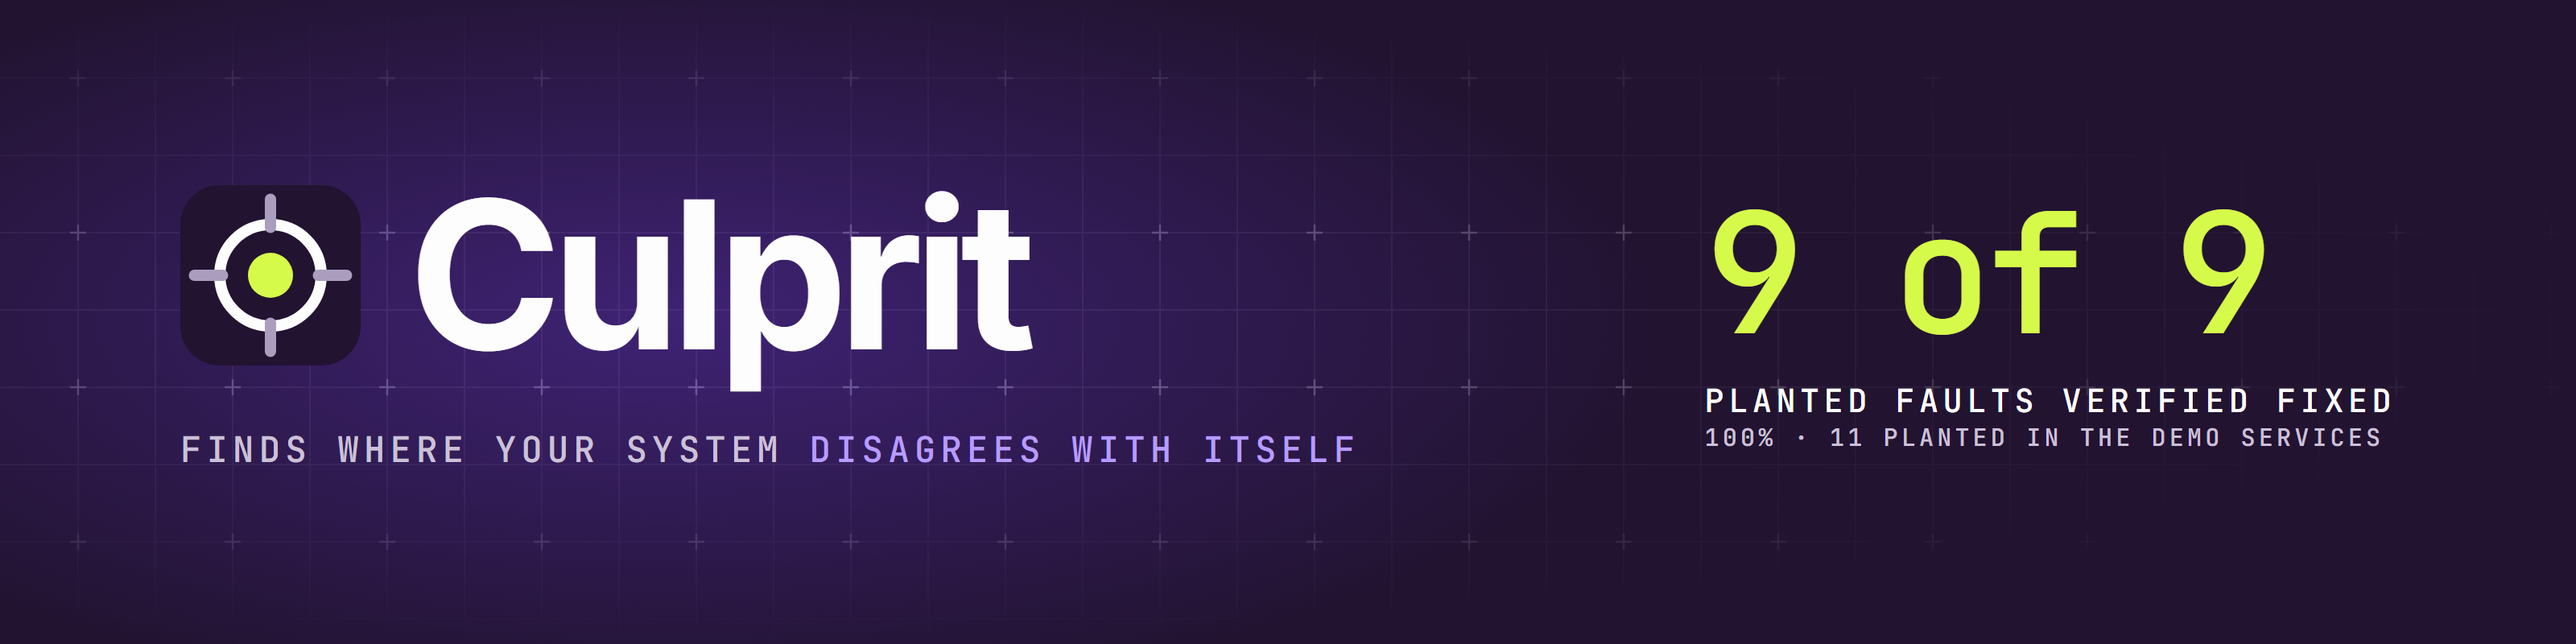
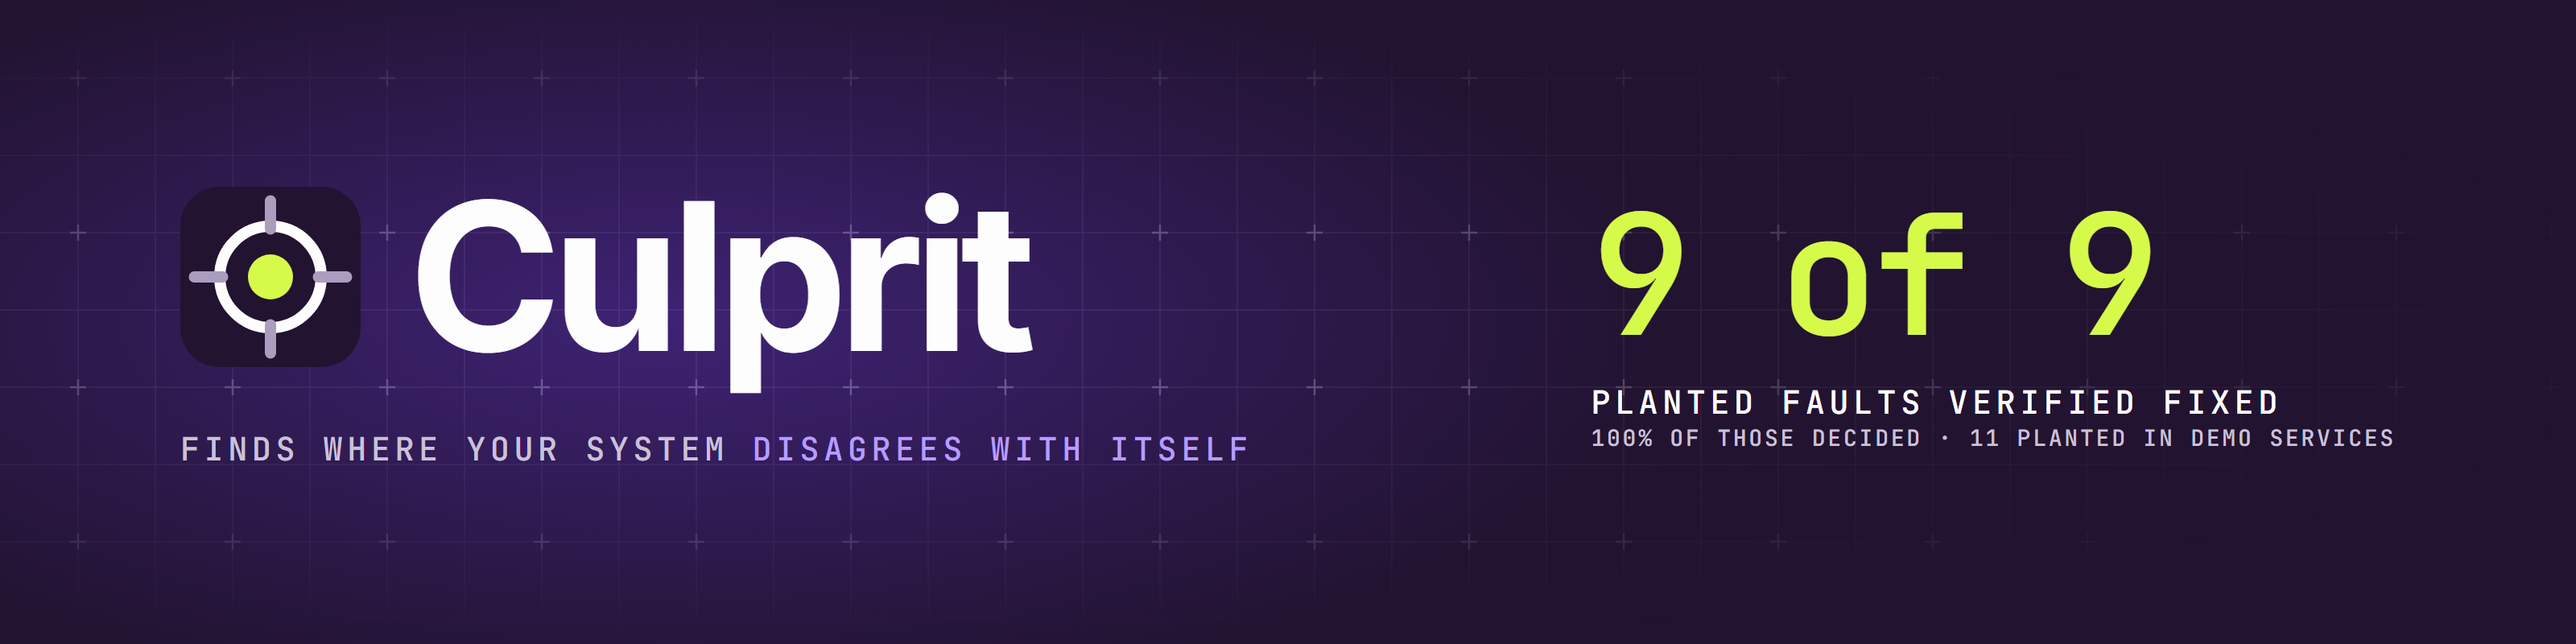
Phase 40 part 2: the audits' findings
phase-auditor (NOT COMPLETE on four points), each fixed:
- check_readme.py read a figure only within one line, so the README's
  "9 gaps / listed." (wrapped) was never compared. The probe counts and
  self-check figures are now matched over the prose as one string, with
  whitespace across line breaks; a test where both wrap; shown red on
  the tree: the README's "8 gaps" against the self-check's 9.
- The walk diagram's database edges contradicted isolate.go: a statement
  over its budget roots the walk (refined to a missing index when the
  four planes agree), and with none, an entry over its own budget roots
  at its own time; "partial" is a question that could not be asked.
- "Only two packages may link net/http": the allowlist names the probe
  package, its guardedhttp, and the transport. Corrected.
- PROBES.md and UPGRADING.md pointed at README sections now in the
  guide. Repointed. The old README's "Limits" paragraph moved to the
  guide whole; the guide's header lists the three corrected statements.

invariant-auditor (CLEAN), its first risk taken: with the ring no longer
pinned, nothing kept it violet. test_the_ring_is_violet_at_a_higher_
lightness: violet's hue within 5 degrees, not a grey, lighter than the
fill. Shown red: the ring set to lime (#d6fa4a), which passes every 3:1
pair.

Also: the hero's subline says what the 9 are ("100% of those decided ·
11 planted in demo services") and no label wraps; re-rendered by
[…]

diff --git a/docs/brand/hero.html b/docs/brand/hero.html
@@ -114,8 +114,9 @@
     font-weight: 500;
     text-transform: uppercase;
     letter-spacing: 0.14em;
+    white-space: nowrap;
   }
-  .promise { font-size: 22px; color: var(--ink-quiet); }
+  .promise { font-size: 20px; color: var(--ink-quiet); }
   .promise b { color: var(--accent); font-weight: 500; }
 
   .figure {
@@ -135,7 +136,7 @@
   }
   :root[data-theme="light"] .figure .value { padding: 10px 22px 14px; border-radius: 10px; }
   .figure .what { font-size: 20px; color: var(--ink); }
-  .figure .scope { font-size: 15px; color: var(--ink-quiet); }
+  .figure .scope { font-size: 14px; letter-spacing: 0.1em; color: var(--ink-quiet); }
 
   /* The social preview: 1280x640, stacked. */
   :root[data-variant="social"] .layout {
@@ -178,7 +179,7 @@
   for (const [name, value] of Object.entries(hero.tokens)) root.style.setProperty(`--${name}`, value);
   document.getElementById("value").textContent = `${hero.figure.verified} of ${hero.figure.decided}`;
   document.getElementById("scope").textContent =
-    `${hero.figure.share} · ${hero.figure.planted} planted in the demo services`;
+    `${hero.figure.share} of those decided · ${hero.figure.planted} planted in demo services`;
 
   const svg = document.querySelector(".graticule");
   const ns = "http://www.w3.org/2000/svg";

diff --git a/scripts/check_readme.py b/scripts/check_readme.py
@@ -80,22 +80,22 @@ FIGURES: tuple[tuple[str, re.Pattern[str], re.Pattern[str]], ...] = (
     (
         "facts",
         re.compile(r"(\d+) fact\(s\) compared across \d+ subject\(s\)"),
-        re.compile(r"\b([\d,]+) facts across [\d,]+ subjects\b"),
+        re.compile(r"\b([\d,]+)\s+facts\s+across\s+[\d,]+\s+subjects\b"),
     ),
     (
         "subjects",
         re.compile(r"\d+ fact\(s\) compared across (\d+) subject\(s\)"),
-        re.compile(r"\b[\d,]+ facts across ([\d,]+) subjects\b"),
+        re.compile(r"\b[\d,]+\s+facts\s+across\s+([\d,]+)\s+subjects\b"),
     ),
     (
         "gaps",
         re.compile(r"^Not checked \((\d+)\)", re.M),
-        re.compile(r"\b([\d,]+) gaps listed\b"),
+        re.compile(r"\b([\d,]+)\s+gaps\s+listed\b"),
     ),
     (
         "unverifiable",
         re.compile(r"^Unverifiable surface \((\d+)\)", re.M),
-        re.compile(r"\b([\d,]+) subjects only one source describes\b"),
+        re.compile(r"\b([\d,]+)\s+subjects\s+only\s+one\s+source\s+describes\b"),
     ),
 )
 
@@ -171,17 +171,38 @@ def catalogue_count(catalogue: Path = CATALOGUE) -> int:
     return len(probes)
 
 
+def _prose(text: str) -> tuple[str, list[int]]:
+    """The prose outside fenced code as one string, so a phrase that wraps
+    across lines is still read, and each of its lines' starting offsets."""
+    starts: list[int] = []
+    parts: list[str] = []
+    offset = 0
+    for _number, line in _prose_lines(text):
+        starts.append(offset)
+        parts.append(line)
+        offset += len(line) + 1
+    return "\n".join(parts), starts
+
+
+def _line_at(text: str, offset: int) -> int:
+    """The source line number of an offset into _prose(text)'s string."""
+    numbers = [number for number, _line in _prose_lines(text)]
+    _joined, starts = _prose(text)
+    index = max(i for i, start in enumerate(starts) if start <= offset) if starts else 0
+    return numbers[index] if numbers else 0
+
+
 def check_probe_count(paths: list[Path], count: int, root: Path = ROOT) -> list[str]:
     failures: list[str] = []
     for path in paths:
-        for number, line in _prose_lines(path.read_text(encoding="utf-8")):
-            for said in PROBE_COUNT.findall(line):
-                value = int(said) if said.isdigit() else NUMBER_WORDS[said.lower()]
-                if value != count:
-                    where = path.relative_to(root).as_posix()
-                    failures.append(
-                        f"{where}:{number}: says {said} probes; the catalogue holds {count}"
-                    )
+        text = path.read_text(encoding="utf-8")
+        prose, _starts = _prose(text)
+        for match in PROBE_COUNT.finditer(prose):
+            said = match.group(1)
+            value = int(said) if said.isdigit() else NUMBER_WORDS[said.lower()]
+            if value != count:
+                where = f"{path.relative_to(root).as_posix()}:{_line_at(text, match.start())}"
+                failures.append(f"{where}: says {said} probes; the catalogue holds {count}")
     return failures
 
 
@@ -229,16 +250,17 @@ def check_figures(paths: list[Path], output: str, root: Path = ROOT) -> list[str
     failures: list[str] = []
     quoted_any = False
     for path in paths:
-        for number, line in _prose_lines(path.read_text(encoding="utf-8")):
-            for name, _produced, quoted in FIGURES:
-                for said in quoted.findall(line):
-                    quoted_any = True
-                    if int(said.replace(",", "")) != figures[name]:
-                        where = path.relative_to(root).as_posix()
-                        failures.append(
-                            f"{where}:{number}: quotes {said} {name}; the self-check "
-                            f"produced {figures[name]}"
-                        )
+        text = path.read_text(encoding="utf-8")
+        prose, _starts = _prose(text)
+        for name, _produced, quoted in FIGURES:
+            for match in quoted.finditer(prose):
+                quoted_any = True
+                said = match.group(1)
+                if int(said.replace(",", "")) != figures[name]:
+                    where = f"{path.relative_to(root).as_posix()}:{_line_at(text, match.start())}"
+                    failures.append(
+                        f"{where}: quotes {said} {name}; the self-check produced {figures[name]}"
+                    )
     if not quoted_any:
         failures.append("neither README.md nor docs/GUIDE.md quotes a self-check figure")
     return failures

diff --git a/scripts/tests/test_design_tokens.py b/scripts/tests/test_design_tokens.py
@@ -239,6 +239,21 @@ def test_the_anchors_are_the_identity() -> None:
     assert _resolve(TOKENS, "culprit").lower() == "#d6fa4a"
 
 
+def test_the_ring_is_violet_at_a_higher_lightness() -> None:
+    """C2: the ring is no longer pinned, so this keeps it violet's lighter
+    step. The 3:1 pairs alone would pass any bright colour, lime included,
+    which I2 forbids for interaction."""
+    fill = _rgba(_resolve(TOKENS, "brand-fill"))
+    ring = _rgba(_resolve(TOKENS, "ring"))
+    fill_hue, _ = hue_and_saturation(fill)
+    ring_hue, ring_saturation = hue_and_saturation(ring)
+    assert hue_distance(ring_hue, fill_hue) < 5, "--ring is not violet's hue"
+    assert ring_saturation >= GREY, "--ring is a grey, not violet"
+    fill_lightness = colorsys.rgb_to_hls(*(c / 255 for c in fill[:3]))[1]
+    ring_lightness = colorsys.rgb_to_hls(*(c / 255 for c in ring[:3]))[1]
+    assert ring_lightness > fill_lightness, "--ring is not lighter than the fill"
+
+
 def test_the_surfaces_are_plum_at_other_lightnesses() -> None:
     """I2: surfaces are derived from plum by lightness alone, one darker
     for wells and steps lighter for panels."""

diff --git a/scripts/tests/test_check_readme.py b/scripts/tests/test_check_readme.py
@@ -146,3 +146,17 @@ def test_a_document_that_quotes_no_figure_is_red(tmp_path: Path) -> None:
 def test_output_that_is_not_the_self_check_cannot_run(tmp_path: Path) -> None:
     with pytest.raises(ValueError, match="holds no"):
         gate.check_figures([_doc(tmp_path, "x\n")], "Error: no culprit.yaml", root=tmp_path)
+
+
+def test_a_figure_or_count_that_wraps_onto_the_next_line_is_still_read(tmp_path: Path) -> None:
+    """The phase audit's finding: the README's "9 gaps" ended a line and
+    "listed." began the next, so the figure was never compared."""
+    doc = _doc(
+        tmp_path,
+        "intro\n- **Culprit checks itself.** no divergences, 1,753 facts across\n"
+        "  631 subjects, 8 gaps\n  listed.\nIt runs all\nseventeen probes.\n",
+    )
+    failures = gate.check_figures([doc], SELF_CHECK, root=tmp_path)
+    assert failures == ["README.md:3: quotes 8 gaps; the self-check produced 9"]
+    counts = gate.check_probe_count([doc], 18, root=tmp_path)
+    assert counts == ["README.md:6: says seventeen probes; the catalogue holds 18"]

diff --git a/README.md b/README.md
@@ -4,9 +4,7 @@
   <img src="docs/brand/hero-dark.png" width="800" alt="Culprit: finds where your system disagrees with itself. Beside it, how many of the faults planted in the demo services were verified fixed, the figure in the accuracy section below.">
 </picture>
 
-[Guide](docs/GUIDE.md) · [Quickstart](#quickstart) · [Limits](docs/LIMITS.md) ·
-[Probes](docs/PROBES.md) · [Permissions](docs/PERMISSIONS.md) ·
-[Install](docs/INSTALL.md) · [Security](docs/SECURITY.md)
+[Guide](docs/GUIDE.md) · [Quickstart](#quickstart) · [Limits](docs/LIMITS.md) · [Probes](docs/PROBES.md) · [Permissions](docs/PERMISSIONS.md) · [Install](docs/INSTALL.md) · [Security](docs/SECURITY.md)
 
 # Culprit
 
@@ -111,7 +109,9 @@ rank. Two sources that describe the same thing produce byte-identical
 subjects, so comparing them is a grouping, not a guess.
 
 **The walk.** `culprit diagnose` asks in a fixed order, cheapest and most
-fundamental first, and stops at the first question that finds a root:
+fundamental first, and stops at the first question that finds a root. A
+question it could not ask (a grant missing, a probe inconclusive) makes the
+diagnosis partial, and it says which:
 
 ```mermaid
 %%{init: {"theme": "base", "themeVariables": {"background": "#221331", "primaryColor": "#261537", "primaryTextColor": "#fdfdfd", "primaryBorderColor": "#7540f5", "secondaryColor": "#2f1a44", "tertiaryColor": "#180e23", "lineColor": "#ab9dbd", "textColor": "#ab9dbd", "clusterBkg": "#180e23", "clusterBorder": "#452663", "edgeLabelBackground": "#221331", "titleColor": "#fdfdfd", "fontFamily": "Inter, sans-serif"}}}%%
@@ -121,7 +121,8 @@ flowchart TD
   latency["2 · latency<br/>each budgeted route, depth first"]
   isolated{"environment declared<br/>isolated, and the entry<br/>over its budget?"}
   nplusone["3 · N+1<br/>statements per item, one GET"]
-  database["4 · the database<br/>statement budget, generic plan,<br/>live indexes, migrations"]
+  database["4 · the database<br/>statement budgets; then the plan,<br/>live indexes and migrations"]
+  entryslow{"the entry itself<br/>over its budget?"}
   root["ROOT<br/>every edge cites its readings"]
   stopped["partial<br/>where the walk stopped, and why"]
 
@@ -134,8 +135,10 @@ flowchart TD
   isolated -- "no" --> database
   nplusone -- "one statement per item" --> root
   nplusone -- "none" --> database
-  database -- "all four agree" --> root
-  database -- "otherwise" --> stopped
+  database -- "a statement over its budget;<br/>a missing index when all four agree" --> root
+  database -- "none" --> entryslow
+  entryslow -- "yes: its own time" --> root
+  entryslow -- "no" --> stopped
 
   classDef answer fill:#d6fa4a,color:#221331,stroke:#d6fa4a
   class root answer
@@ -152,9 +155,9 @@ The full account, with the architecture diagrams, is in
 
 ## Engineering highlights
 
-- **The determinism boundary is linked, not promised.** Only two packages in
-  the binary may link `net/http`, and a test lists every package and fails on
-  any other: `TestTheNetworkBoundaryIsAnAllowlist` in
+- **The determinism boundary is linked, not promised.** Only the probe
+  package (with its one-file `guardedhttp`) and the agent's transport may
+  link `net/http`, and a test lists every package and fails on any other: `TestTheNetworkBoundaryIsAnAllowlist` in
   [`cli/cmd/culprit/check_test.go`](cli/cmd/culprit/check_test.go). Nothing
   in the binary opens a listener (`TestNothingInTheBinaryListens`).
 - **No LLM client outside narration.**
@@ -280,9 +283,7 @@ From the plans of record:
 | Backend | Python 3.12, FastAPI, SQLAlchemy, Alembic, `arq` jobs on Redis, managed with `uv` |
 | Data | PostgreSQL 16 with TimescaleDB and pgvector, one instance, least-privilege roles |
 | Frontend | React 18, Vite, TypeScript, Tailwind, shadcn/ui, TanStack Query, visx, cmdk |
-| Infrastructure and checks | Docker Compose, Caddy, GitHub Actions, Trivy, pytest, `go test`, pyright, ruff, import-linter, Playwright |
-
-The full table is in [the guide](docs/GUIDE.md#technology-stack).
+| Infrastructure and checks | Docker Compose, Caddy, GitHub Actions, Trivy, pytest, `go test`, pyright, ruff, import-linter, Playwright; the full table is in [the guide](docs/GUIDE.md#technology-stack) |
 
 ## Author and licence
 

diff --git a/docs/LIMITS.md b/docs/LIMITS.md
@@ -3242,3 +3242,34 @@ surface, tint and glass. One thing it does not cover:
   content scrolling beneath it (there is little: the dashboard is dark
   throughout) would lower the contrast of the header's muted text, softened
   by the blur.
+
+## The README's checks hold what they can name, and the rest is read by hand
+
+Phase 40 part 2 made the README an overview (`docs/GUIDE.md` holds the
+depth) and `scripts/check_readme.py` holds it to the tree: relative links,
+the probe count, the README's length, the diagrams' colours, and, in CI's
+self-check job, the self-check's figures. What it does not hold:
+
+- **A link's anchor is not checked.** `docs/GUIDE.md#how-it-works` passes
+  when the file exists, whether or not the heading does; a renamed heading
+  leaves GitHub opening the page at its top.
+- **A probe count is read only in two phrasings,** a number or a word up to
+  twenty before "probes" (`18 read-only probes`, `all 18 probes`), and only
+  in `README.md` and `docs/GUIDE.md`. A count phrased otherwise, or in
+  another document, is not compared with the catalogue.
+- **The self-check's figures are checked in CI only.** Locally, `just lint`
+  checks links, the count, the length and the colours; the figures need the
+  self-check's output, which the self-check job produces. A figure the
+  README quotes in a phrasing the check does not know is not compared.
+- **Every other number is audited by hand,** in the run report: versions,
+  "four checks", the plan's phase numbers. The accuracy block and the hero's
+  figure are rendered, and their tests fail when stale.
+- **The hero holds its figure, not its look.** `docs/brand/hero.json`
+  records the figure the images were drawn with, and a test holds it to the
+  fault library's results; a token changed in `index.css` after the hero
+  was rendered is not caught until `just readme-hero` runs again. The hero
+  needs `npm ci` in `frontend/` and Playwright's Chromium, and its
+  anti-aliasing can differ a little between Chromium versions.
+- **The diagrams are dark in GitHub's light theme.** Mermaid takes one
+  `init` theme per diagram, so the plum nodes are the same in both of
+  GitHub's themes; only the hero has a light variant.

diff --git a/docs/GUIDE.md b/docs/GUIDE.md
@@ -4,8 +4,11 @@ The depth behind [the README](../README.md): every feature, how it works, the
 decisions behind it, installation, a tutorial end to end, the agent surface,
 testing and the project's layout. This text was the README's until Phase 40
 part 2 moved it here, as it was; only its relative links were rebased from the
-repository's root to `docs/`, and three sentences that pointed at the README's
-captures now link to them.
+repository's root to `docs/`, three sentences that pointed at the README's
+captures and accuracy section now link to them, and three statements that had
+gone stale were corrected from their sources: the probe count, twice, and the
+list of what the probes read, from the catalogue; the unverifiable surface,
+from the self-check.
 
 ## Key features
 
@@ -904,3 +907,11 @@ dogfooding, and it is why the "Not checked" list is never optional.
 | [`deploy/agent/`](../deploy/agent) | the agent's recipes: Docker, Compose, Kubernetes, systemd |
 | [`scripts/`](../scripts) | the repository's own invariant checks, bootstrap and capture tooling |
 | [`docs/`](../docs) | the plan, limits, permissions, probes, install and upgrade guides |
+
+## Limits
+
+Culprit states its limits rather than implying it has none:
+[`docs/LIMITS.md`](LIMITS.md) covers every threshold, heuristic and
+coverage gap, from what an extractor cannot see to why a timeout is never a
+failure. [`docs/PROBES.md`](PROBES.md) documents each probe and
+[`docs/PERMISSIONS.md`](PERMISSIONS.md) every grant.

diff --git a/docs/UPGRADING.md b/docs/UPGRADING.md
@@ -222,7 +222,7 @@ create the role without the password, and the worker will not start without
 the URL — even with narration off. `LLM_PROVIDER` may be left out (it means
 `none`). To narrate, set `LLM_PROVIDER=ollama` with `NARRATOR_MODEL` and
 `OLLAMA_URL`, or `anthropic` with `NARRATOR_MODEL` and `ANTHROPIC_API_KEY`
-(the README's "Narration, if you want it"); restart the worker and the api.
+(`docs/GUIDE.md`'s "Narration, if you want it"); restart the worker and the api.
 
 - **`a6c2e9d4f8b1` adds `narrations`**, append-only like `verifications`.
   A script that runs `TRUNCATE investigations CASCADE` now reaches it too and

diff --git a/docs/PROBES.md b/docs/PROBES.md
@@ -141,7 +141,7 @@ readings are produced by the worker, which has the telemetry
 
 Phase 36. A latency is only a finding against a declared budget: a
 `budgets:` entry in `culprit.yaml`, or an OpenAPI operation's
-`x-culprit-budget` (the README's "Latency budgets"). With no budget, the
+`x-culprit-budget` (`docs/GUIDE.md`'s "Latency budgets"). With no budget, the
 probe sends nothing and is `inconclusive`. A route with both budgets is
 measured once and gives two readings, one per budget, judged from the same
 samples.
